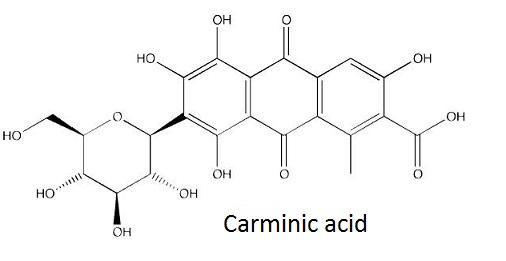
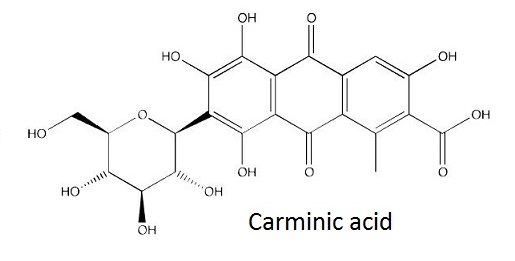
new features
-images better aligned
-new h2 headers

Changed region(s): [[0.0593, 0.0307, 0.9783, 0.9195], [0.4447, 0.7969, 0.7708, 0.8889], [0.0, 0.3985, 0.2964, 0.5517]]

diff --git a/project.html b/project.html
@@ -10,7 +10,7 @@
 
   <style>
     div.jumbotron {
-      min-height: 400px;
+      min-height: 450px;
       background-image:url("Cosmetics_2.jpg");
       background-size: cover;
       background-attachment:fixed;
@@ -18,7 +18,7 @@
     body{
       padding-top: 70px;
     }
-    div.jumbotron h2{
+    div.jumbotron h1{
       color: white;
       background-color: rgba(245,165,80,0.9);
       border-radius: 25px;
@@ -80,14 +80,26 @@
     ul.content-list{
       line-height: 40px;
     }
-    div.buzz h2{
+    h2{
+      margin-bottom: 1.2em;
+      padding-top:15px;
+      padding-left: 20px;
+      font-size:35px;
+      color: #222
     }
     div.main div.row{
-      border-left:solid;
-      border-top:solid;
+      border:dotted;
+      border-radius:25px;
+      border-color: green;
+      margin-bottom: 1.2em;
     }
     div.skin{
       text-align:center;
+    }
+    div.panel-body{
+      line-height: 30px;
+      font-family:"Palatino Linotype", "Book Antiqua", Palatino, serif;
+      font-size: 21px;
     }
   </style>
   
@@ -117,7 +129,7 @@
 
         <div class='row'>
           <div class='col-sm-8'>
-            <h2>Chemistry behind cosmetic products</h2>
+            <h1>Chemistry behind cosmetic products</h1>
           </div>
         </div>
       </body>
@@ -139,7 +151,7 @@
           </ul>
            <p>  
 
-          <h2>Five common cosmetics and their main ingredients</h2>
+          <h2>Analysing 5 common cosmetics</h2>
           <div class='main'>
             <div class='row'>
               <div class='col-sm-2'>
@@ -210,7 +222,7 @@
           </div>
         </div>
         <div class='col-sm-4'>
-          <div class="panel panel-default">
+          <div class="panel panel-default fixed">
             <div class="panel-body">
              Send us a question!
               <form role='form'>
@@ -225,6 +237,10 @@
                 <button class="btn btn-facebook"><span class="hidden-element">Facebook</span></button>
                 <button class="btn btn-pinterest"><span class="hidden-element">Pinterest</span></button>
               </ul>
+            </div>
+            <div class='poll'>
+            </div>
+            <div class='quiz'>
             </div>
           </div>
         </div>
